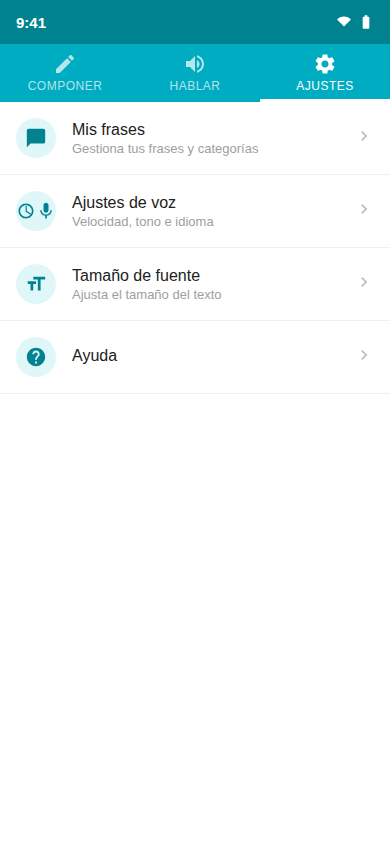
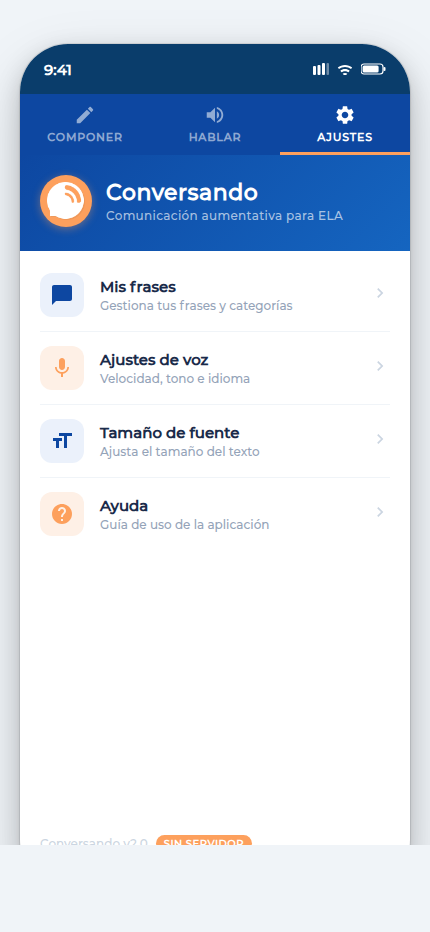
docs: refresh screenshots with brand colors and update authorship
- Rebuild mockups with navy blue (#0D47A1), white and orange (#FDA05D)
  brand palette — high contrast, phone frame, Montserrat font
- Add brand logo and "Sin servidor" badge to AJUSTES screen
- Orange accent on active tab indicator and speak/Sí/Gracias buttons
- Credit María de Antón as author and note ELA patient focus

diff --git a/README.md b/README.md
@@ -105,6 +105,8 @@ La app está diseñada para personas con movilidad reducida:
 
 ---
 
-## Licencia
+## Autoría
 
-Proyecto de la Fundación REDELA para la investigación sobre ELA.
+Proyecto de **María de Antón** para personas con ELA (Esclerosis Lateral Amiotrófica) y otras enfermedades neuromusculares que afectan al habla y la movilidad.
+
+Desarrollado en el marco de la investigación de la Fundación REDELA.
